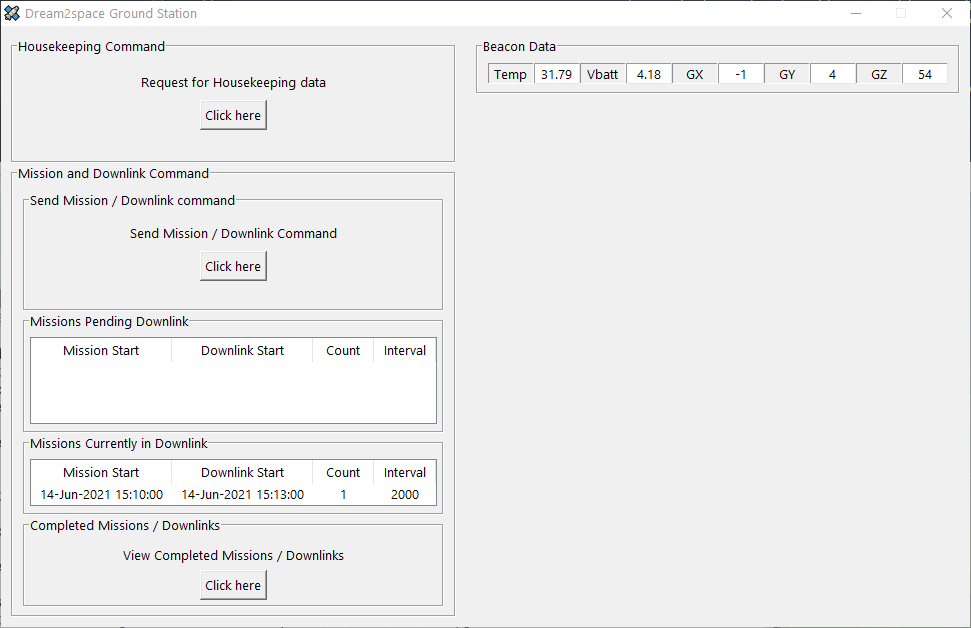
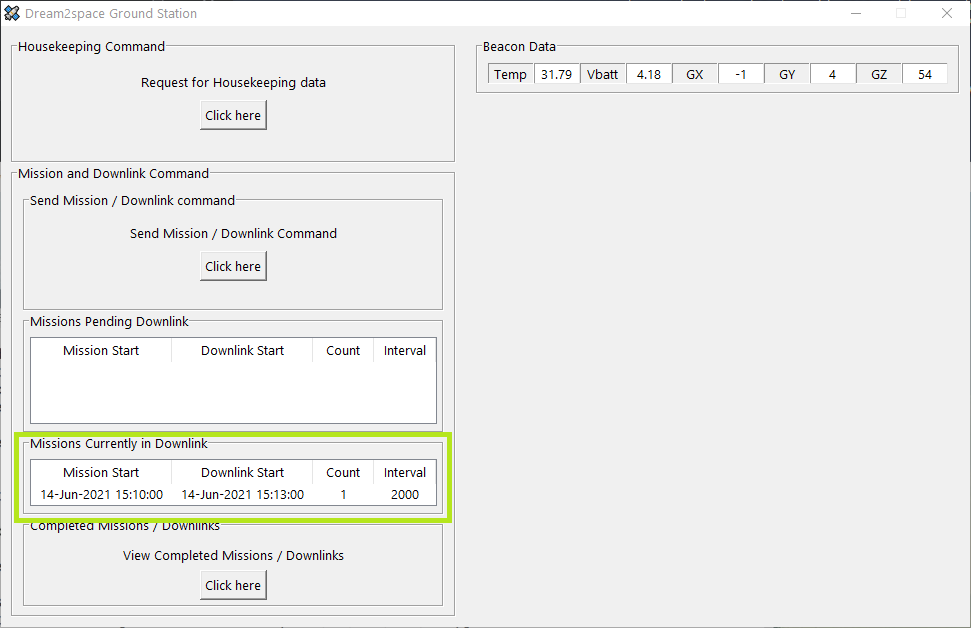
add mission and downlink section

Changed region(s): [[0.0, 0.6656, 0.4634, 0.8471]]

diff --git a/v0.2-doc/Ground_Stn_Doc.md b/v0.2-doc/Ground_Stn_Doc.md
@@ -335,11 +335,33 @@ The Submit button is boxed in **<span style="color: lime">green</span>** in the 
 
 ### Step 2: Waiting for Mission to be executed
 
+After the Submit button is clicked, the Mission command will be sent to the Dream2space Cubeat.
+
+While the command is being sent, the progress bar will be shown.
+
+To ensure that the Housekeeping command is sent without disruption, all commands sending will be disabled.
+
 <img src="images/app-mission-sending-cmd.png" alt="Mission command sending" width="90%"/>
+
+After the mission command is sent, a mission record is kept in the `Missions Pending Downlink` panel.
+
+The record will be stored here until 2 minutes before the Downlink time of the Mission.
+
+An example of a mission record in the `Missions Pending Downlink` panel is boxed in **<span style="color: lime">green</span>** in the screenshot below.
+
+<img src="images/app-mission-sending-cmd-record.png" alt="Mission record" width="90%"/>
 
 ### Step 3: Waiting for Downlink to be completed
 
+When a mission is 2 minutes away from its Downlink time, the Ground Station will enter standby mode to wait for the downlink of images.
+
+When this happens, the mission record will be shifted from the `Missions Pending Downlink` panel to the `Missions Currently in Downlink` panel.
+
+An example of a mission record in the `Missions Currently in Downlink` panel is boxed in **<span style="color: lime">green</span>** in the screenshot below.
+
 <img src="images/app-mission-downlink-standby.png" alt="Downlink standby" width="90%"/>
+
+The mission record will remain there until the completion of downlink, decoding and processing of images collected (if successful).
 
 ### Step 4: Viewing status of Missions
 
